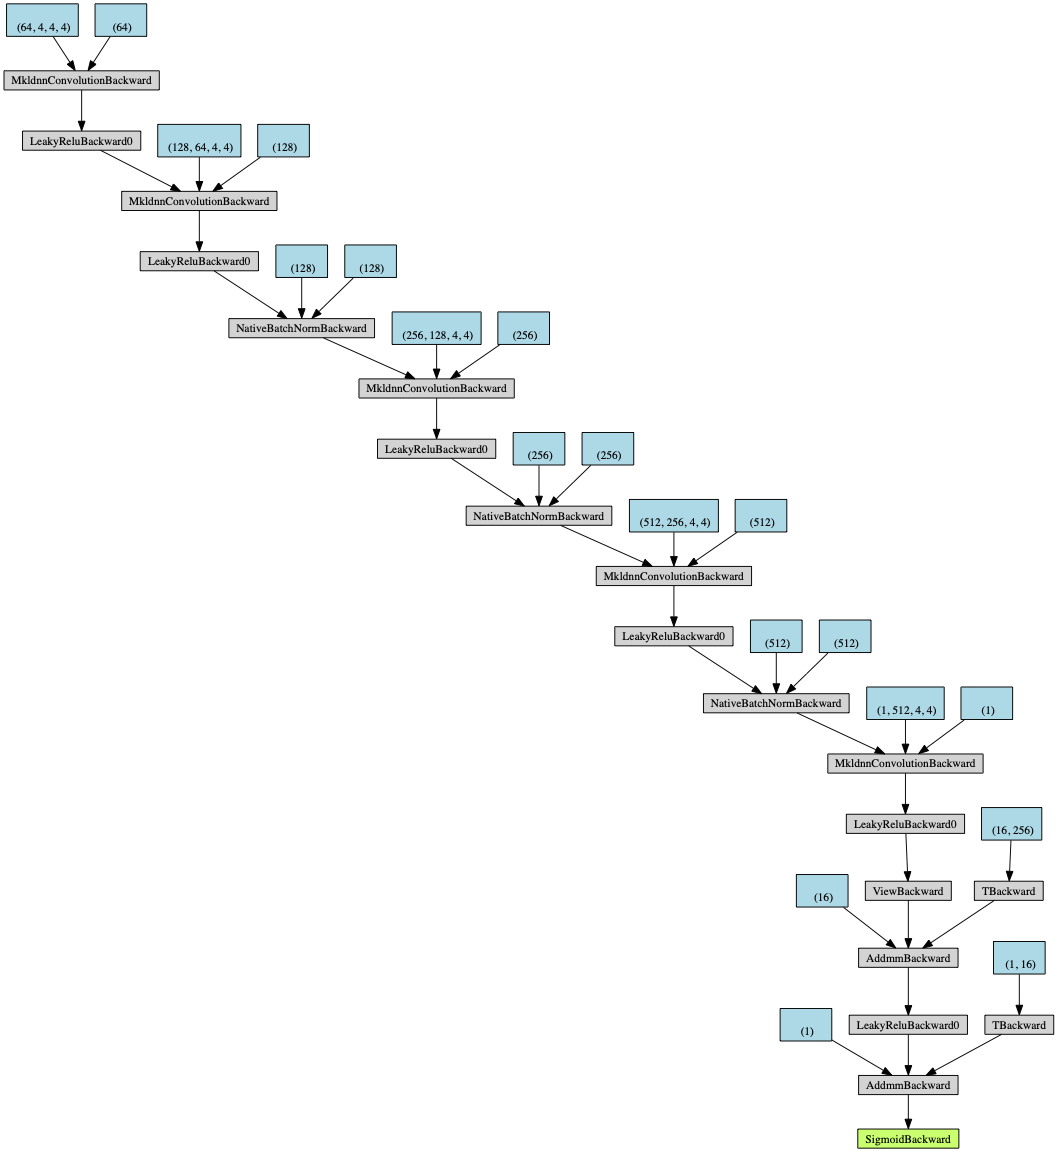
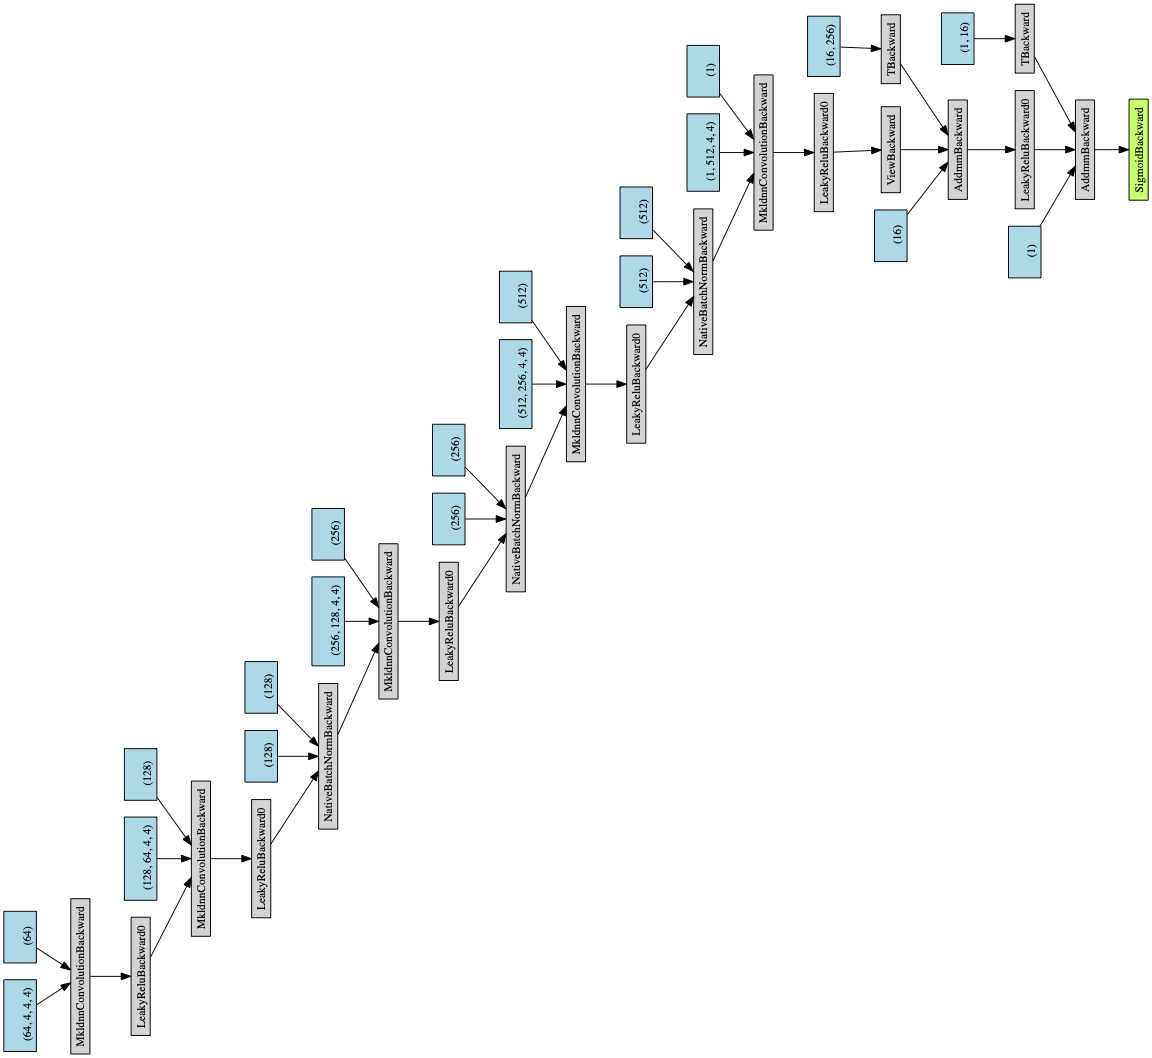
updated the doc of the project

Changed region(s): [[0.0, 0.0, 0.9981, 0.9981], [0.7174, 0.811, 0.9981, 0.9981], [0.811, 0.0, 0.9981, 0.2807]]

diff --git a/README.md b/README.md
@@ -18,14 +18,45 @@ It takes a colored image and transforms it into a black & white image.
 <img src = "/media/color2black&white.png" height="250">
 
 
+## Model:
+This repo is largely inspired by the paper [*Image-to-Image Translation with Conditional Adversarial Networks*](https://arxiv.org/pdf/1611.07004.pdf)
+published in 2016 by Phillip Isola, Jun-Yan Zhu, Tinghui Zhou and Alexei A. Efros.
 
-# Model:
-- https://arxiv.org/pdf/1611.07004.pdf
-title={Image-to-Image Translation with Conditional Adversarial Networks},
-    author={Phillip Isola and Jun-Yan Zhu and Tinghui Zhou and Alexei A. Efros},
-    year={2016},
+We build a conditional Generative Adversarial Network (cGAN) made of:
+- a generator `G` taking a black&white image as input and generating a colorized version of this image (conditioned on the image)
+- a discriminator `D` taking a black&white image and a colorized image (either ground truth or generated by `G`). 
+It predicts, **conditionally** to the B&W image if the colorized input is the ground truth or a generated example.
 
-# Objective function
+<img src = "/media/GAN.png" height="150">
+
+
+The generator has a UNet architecture. This architecture is often used for image segmentation, and one could justify that this architecture
+helps the generator avoid coloring beyond the edges of the B&W image. A bit like a child.
+
+<img src = "/media/color_edge.jpg" height="150">
+
+It is a variation of the classical autoencoder:
+<img src = "/media/Unet.png" height="200">
+
+The `pytorch` computational graph of the model is: 
+<img src = "/media/generator.png" height="200">
+
+The discriminator is a classical Convet classifier that takes both a B&W and a colored image as input:
+<img src = "/media/discriminator.png" height="200">
+
+## Training algorithm
+
+As in the traditional GAN setting, the generator and the discriminator play a Min-Max game. Here our loss function is
+<img src = "/media/loss_fn.png" height="75">
+
+That being said, contrary to the pix2pix paper, we did not implement any source of randomness in the generation of the colorized images.
+
+## Results
+
+<img src = "/colorful_wolrd/results/loss_graph.png" height="200">
+
+<img src = "/colorful_wolrd/results/color_evolution/colorization_training.gif" height="200">
+
 
 # TODO:
     
